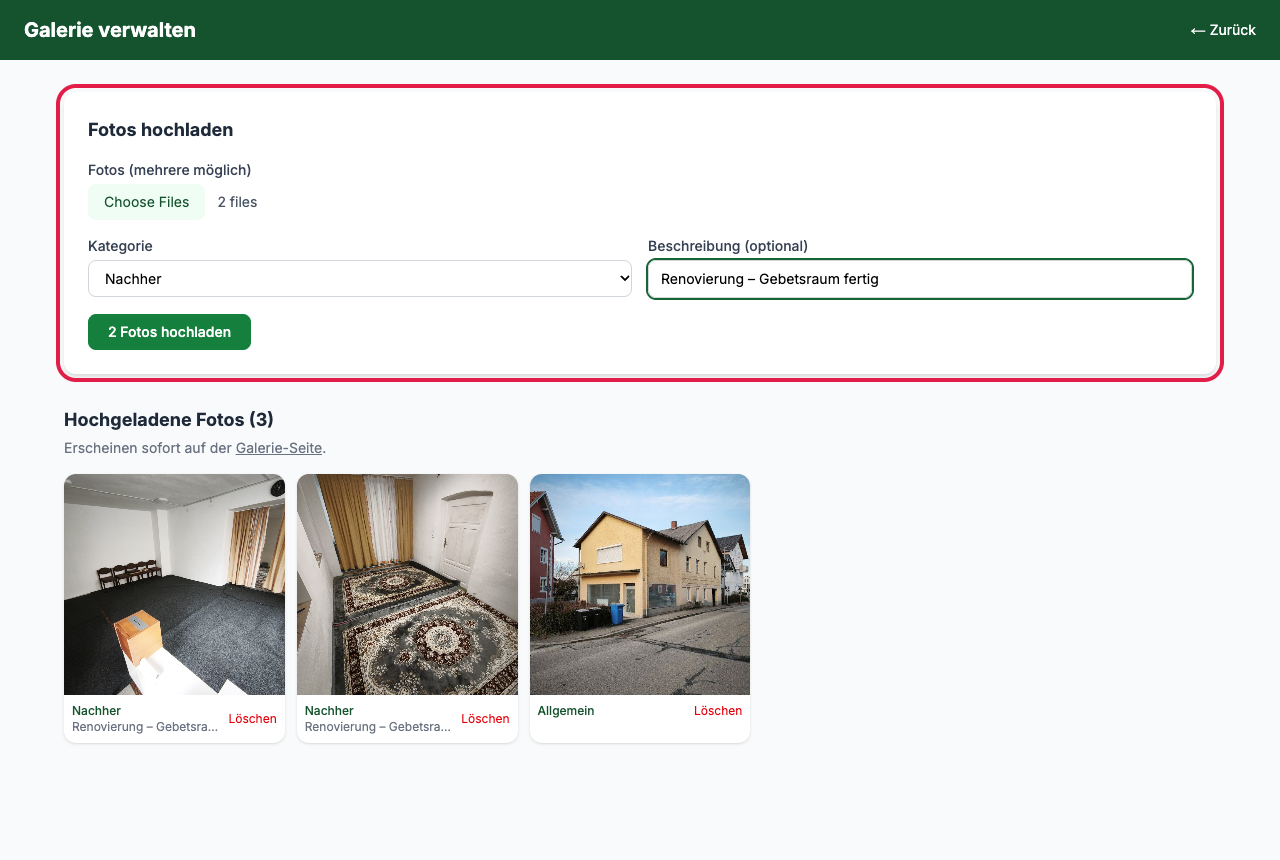
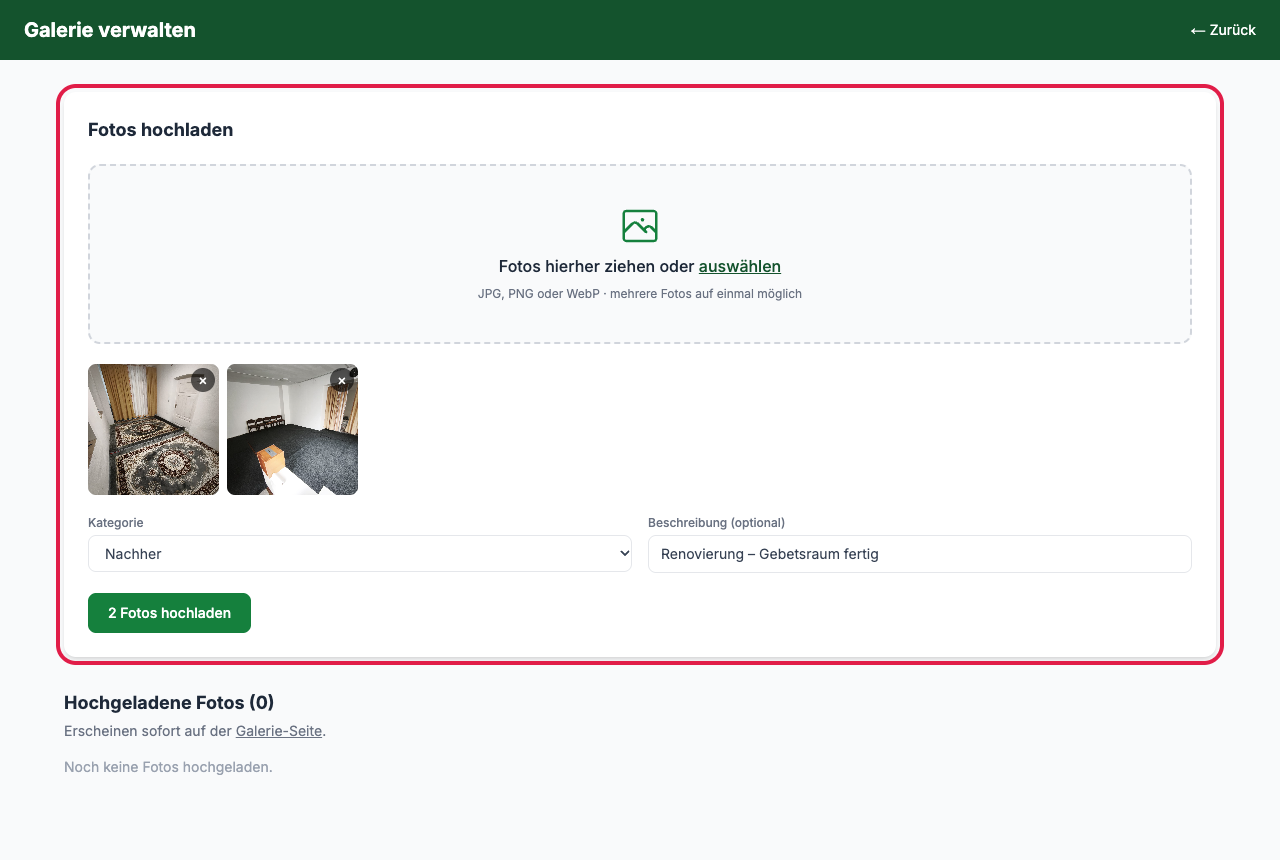
feat: drag-and-drop photo box with previews in gallery admin
- big drop box replaces the plain file button; chosen photos show as previews
- category and description appear only after picking photos, styled quieter

diff --git a/src/app/admin/galerie/page.tsx b/src/app/admin/galerie/page.tsx
@@ -1,6 +1,6 @@
 "use client";
 
-import { useState, useEffect, useCallback } from "react";
+import { useState, useEffect, useCallback, useMemo } from "react";
 import Link from "next/link";
 import type { MediaItem } from "@/lib/media";
 import { MEDIA_CATEGORIES } from "@/lib/media";
@@ -33,7 +33,17 @@ export default function AdminGalleryPage() {
   const [status, setStatus] = useState("");
   const [error, setError] = useState("");
   const [busy, setBusy] = useState(false);
-  const [inputKey, setInputKey] = useState(0);
+  const [dragOver, setDragOver] = useState(false);
+
+  // Small local previews of the chosen photos (freed again when the selection changes)
+  const previews = useMemo(() => files.map((f) => URL.createObjectURL(f)), [files]);
+  useEffect(() => () => previews.forEach((u) => URL.revokeObjectURL(u)), [previews]);
+
+  function addFiles(list: FileList | null) {
+    const images = Array.from(list ?? []).filter((f) => f.type.startsWith("image/"));
+    if (images.length) setFiles((prev) => [...prev, ...images]);
+    setError("");
+  }
 
   const load = useCallback(async () => {
     const res = await fetch("/api/gallery", { cache: "no-store" });
@@ -69,7 +79,6 @@ export default function AdminGalleryPage() {
     if (failed.length) setError(`Fehlgeschlagen: ${failed.join(", ")}`);
     setFiles([]);
     setCaption("");
-    setInputKey((k) => k + 1);
     setBusy(false);
     load();
   }
@@ -93,56 +102,98 @@ export default function AdminGalleryPage() {
       </nav>
 
       <div className="page-container py-8 space-y-8">
-        <form onSubmit={handleUpload} className="bg-white rounded-xl shadow-md p-6 space-y-4">
+        <form onSubmit={handleUpload} className="bg-white rounded-xl shadow-md p-6 space-y-5">
           <h2 className="text-lg font-bold text-gray-800">Fotos hochladen</h2>
 
-          <div>
-            <label className="block text-sm font-medium text-gray-700 mb-1">Fotos (mehrere möglich)</label>
+          {/* Drop box: click or drag photos in */}
+          <label
+            onDragOver={(e) => { e.preventDefault(); setDragOver(true); }}
+            onDragLeave={() => setDragOver(false)}
+            onDrop={(e) => { e.preventDefault(); setDragOver(false); addFiles(e.dataTransfer.files); }}
+            className={`flex flex-col items-center justify-center gap-2 rounded-xl border-2 border-dashed px-6 py-10 text-center cursor-pointer transition-colors ${
+              dragOver
+                ? "border-mosque-green-500 bg-mosque-green-50"
+                : "border-gray-300 bg-gray-50 hover:border-mosque-green-400 hover:bg-mosque-green-50/50"
+            }`}
+          >
+            <svg className="w-10 h-10 text-mosque-green-600" fill="none" stroke="currentColor" strokeWidth={1.5} viewBox="0 0 24 24" aria-hidden>
+              <path strokeLinecap="round" strokeLinejoin="round" d="M2.25 15.75l5.16-5.16a2.25 2.25 0 013.18 0l5.16 5.16m-1.5-1.5l1.41-1.41a2.25 2.25 0 013.18 0l2.91 2.91M3.75 21h16.5A1.5 1.5 0 0021.75 19.5V4.5A1.5 1.5 0 0020.25 3H3.75A1.5 1.5 0 002.25 4.5v15A1.5 1.5 0 003.75 21zM13.5 8.25h.008v.008H13.5V8.25zm.375 0a.375.375 0 11-.75 0 .375.375 0 01.75 0z" />
+            </svg>
+            <p className="font-medium text-gray-800">
+              Fotos hierher ziehen oder <span className="text-mosque-green-700 underline">auswählen</span>
+            </p>
+            <p className="text-xs text-gray-500">JPG, PNG oder WebP · mehrere Fotos auf einmal möglich</p>
             <input
-              key={inputKey}
               type="file"
               accept="image/*"
               multiple
-              onChange={(e) => setFiles(Array.from(e.target.files ?? []))}
-              className="block w-full text-sm text-gray-600 file:mr-3 file:rounded-lg file:border-0 file:bg-mosque-green-50 file:px-4 file:py-2 file:text-mosque-green-700 hover:file:bg-mosque-green-100"
+              className="sr-only"
+              onChange={(e) => { addFiles(e.target.files); e.target.value = ""; }}
             />
-          </div>
+          </label>
 
-          <div className="grid grid-cols-1 sm:grid-cols-2 gap-4">
-            <div>
-              <label className="block text-sm font-medium text-gray-700 mb-1">Kategorie</label>
-              <select
-                value={category}
-                onChange={(e) => setCategory(e.target.value)}
-                className="w-full border border-gray-300 rounded-lg px-3 py-2 text-sm focus:outline-none focus:ring-2 focus:ring-mosque-green-500"
-              >
-                {UPLOAD_CATEGORIES.map((c) => (
-                  <option key={c.value} value={c.value}>{c.label}</option>
+          {files.length > 0 && (
+            <>
+              {/* Previews of chosen photos */}
+              <div className="grid grid-cols-3 sm:grid-cols-5 lg:grid-cols-8 gap-2">
+                {previews.map((url, i) => (
+                  <div key={url} className="relative aspect-square rounded-lg overflow-hidden bg-gray-100">
+                    {/* eslint-disable-next-line @next/next/no-img-element */}
+                    <img src={url} alt="" className="w-full h-full object-cover" />
+                    {!busy && (
+                      <button
+                        type="button"
+                        onClick={() => setFiles((f) => f.filter((_, j) => j !== i))}
+                        className="absolute top-1 right-1 w-6 h-6 rounded-full bg-black/60 text-white text-sm leading-none hover:bg-black/80"
+                        aria-label="Foto entfernen"
+                      >
+                        ×
+                      </button>
+                    )}
+                  </div>
                 ))}
-              </select>
-            </div>
-            <div>
-              <label className="block text-sm font-medium text-gray-700 mb-1">Beschreibung (optional)</label>
-              <input
-                type="text"
-                maxLength={200}
-                value={caption}
-                onChange={(e) => setCaption(e.target.value)}
-                placeholder="z. B. Freitagsgebet März 2026"
-                className="w-full border border-gray-300 rounded-lg px-3 py-2 text-sm focus:outline-none focus:ring-2 focus:ring-mosque-green-500"
-              />
-            </div>
-          </div>
+              </div>
+
+              {/* Details (secondary) */}
+              <div className="grid grid-cols-1 sm:grid-cols-2 gap-4">
+                <div>
+                  <label className="block text-xs font-medium text-gray-500 mb-1">Kategorie</label>
+                  <select
+                    value={category}
+                    onChange={(e) => setCategory(e.target.value)}
+                    className="w-full border border-gray-200 rounded-lg px-3 py-2 text-sm text-gray-700 focus:outline-none focus:border-mosque-green-400"
+                  >
+                    {UPLOAD_CATEGORIES.map((c) => (
+                      <option key={c.value} value={c.value}>{c.label}</option>
+                    ))}
+                  </select>
+                </div>
+                <div>
+                  <label className="block text-xs font-medium text-gray-500 mb-1">Beschreibung (optional)</label>
+                  <input
+                    type="text"
+                    maxLength={200}
+                    value={caption}
+                    onChange={(e) => setCaption(e.target.value)}
+                    placeholder="z. B. Freitagsgebet März 2026"
+                    className="w-full border border-gray-200 rounded-lg px-3 py-2 text-sm text-gray-700 placeholder:text-gray-400 focus:outline-none focus:border-mosque-green-400"
+                  />
+                </div>
+              </div>
+            </>
+          )}
 
           {error && <p className="text-sm text-red-600">{error}</p>}
 
-          <button
-            type="submit"
-            disabled={busy || files.length === 0}
-            className="bg-mosque-green-600 text-white px-5 py-2 rounded-lg text-sm font-medium hover:bg-mosque-green-700 disabled:opacity-50 transition-colors"
-          >
-            {busy ? status : files.length > 1 ? `${files.length} Fotos hochladen` : "Hochladen"}
-          </button>
+          {files.length > 0 && (
+            <button
+              type="submit"
+              disabled={busy}
+              className="bg-mosque-green-600 text-white px-5 py-2.5 rounded-lg text-sm font-medium hover:bg-mosque-green-700 disabled:opacity-60 transition-colors"
+            >
+              {busy ? status : files.length === 1 ? "1 Foto hochladen" : `${files.length} Fotos hochladen`}
+            </button>
+          )}
         </form>
 
         <div>

diff --git a/docs/galerie-anleitung/README.md b/docs/galerie-anleitung/README.md
@@ -10,10 +10,11 @@ Gehen Sie auf **/admin** und melden Sie sich an. Klicken Sie auf **Galerie**.
 
 ## 2. Fotos auswählen und hochladen
 
-1. Klicken Sie auf **Dateien auswählen**. Sie können mehrere Fotos auf einmal wählen.
-2. Wählen Sie eine **Kategorie** (z. B. „Nachher“ oder „Veranstaltungen“).
-3. Optional: eine kurze **Beschreibung**. Sie gilt für alle gewählten Fotos.
-4. Klicken Sie auf **Hochladen**.
+1. Ziehen Sie die Fotos in das gestrichelte Feld – oder klicken Sie auf **auswählen**. Mehrere Fotos auf einmal gehen.
+2. Sie sehen eine Vorschau. Mit **×** entfernen Sie ein Foto wieder.
+3. Wählen Sie eine **Kategorie** (z. B. „Nachher“ oder „Veranstaltungen“).
+4. Optional: eine kurze **Beschreibung**. Sie gilt für alle gewählten Fotos.
+5. Klicken Sie auf **Fotos hochladen**.
 
 ![Formular zum Hochladen](2-hochladen.png)
 
